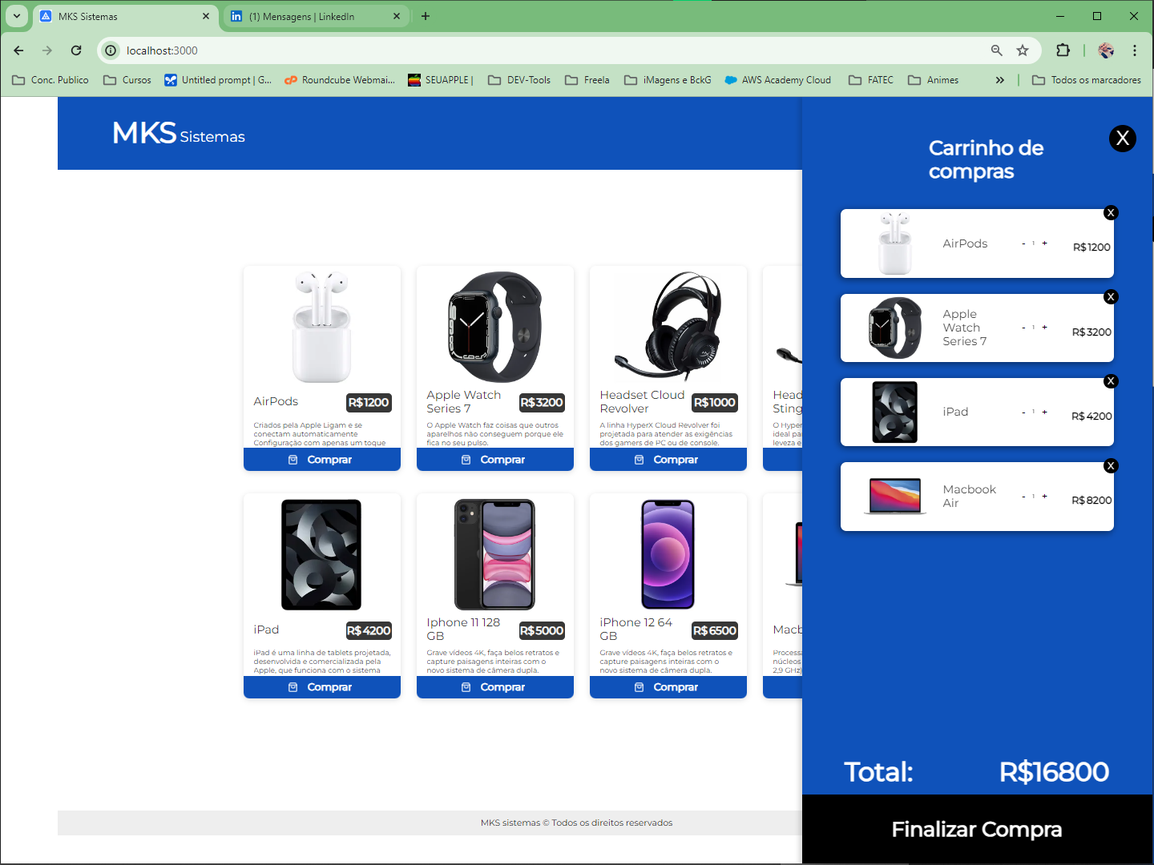
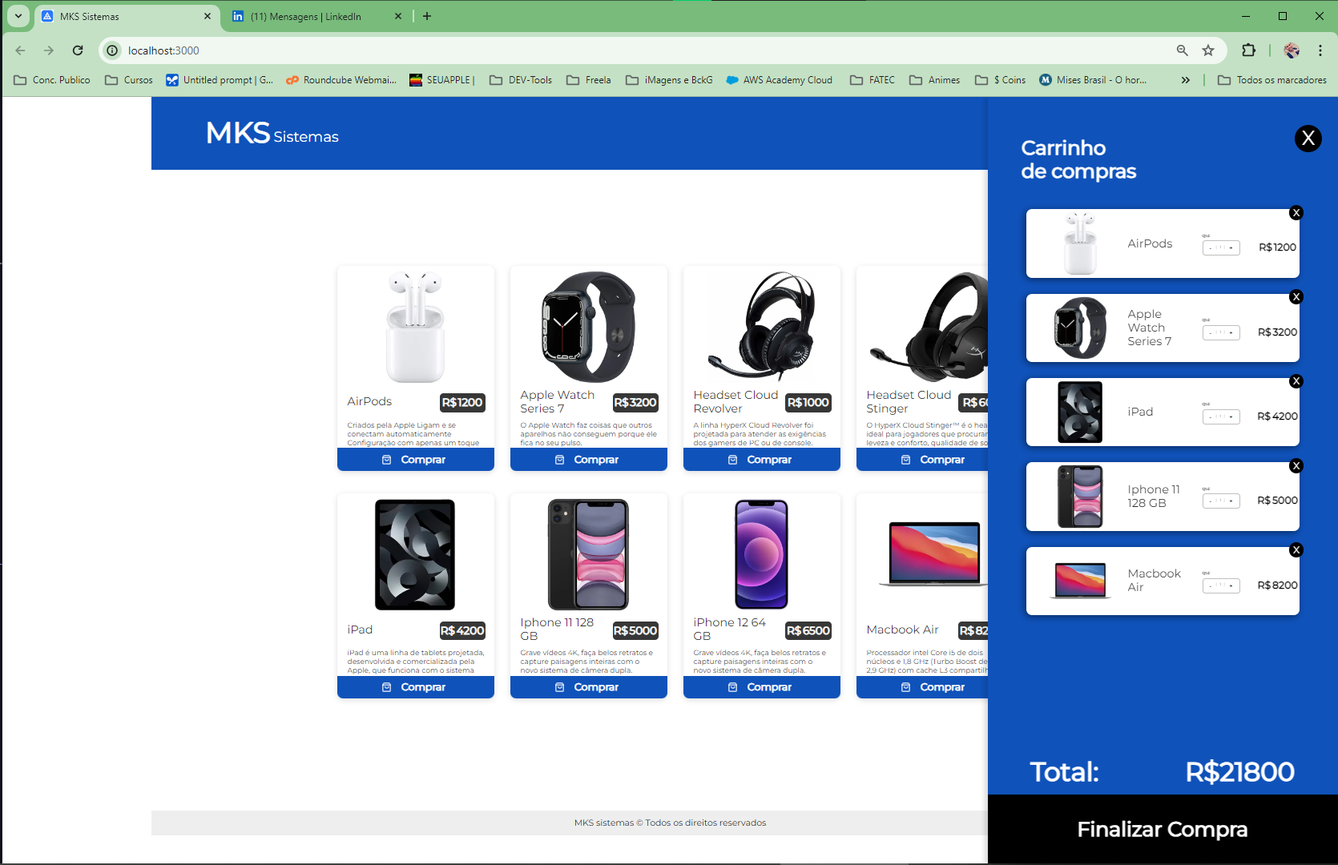
Side Bar: framer-motion, Qtdd button style update

diff --git a/mks-frontend-challenge/mks-sistemas/.firebase/genilson-mks-front-challenge/hosting/_next/static/chunks/app/page-98a6ad5fb05c4de2.js b/mks-frontend-challenge/mks-sistemas/.firebase/genilson-mks-front-challenge/hosting/_next/static/chunks/app/page-98a6ad5fb05c4de2.js
@@ -1,0 +1,1 @@
[1 lines of base64/hex data omitted]

diff --git a/mks-frontend-challenge/mks-sistemas/.firebase/genilson-mks-front-challenge/hosting/index.html b/mks-frontend-challenge/mks-sistemas/.firebase/genilson-mks-front-challenge/hosting/index.html
@@ -1,1 +1,1 @@
-<!DOCTYPE html><html lang="pt-br"><head><meta charSet="utf-8"/><meta name="viewport" content="width=device-width, initial-scale=1"/><link rel="stylesheet" href="/_next/static/css/7d08d1eec1a5125f.css" data-precedence="next"/><link rel="stylesheet" href="/_next/static/css/e2c7adb567ee67d3.css" data-precedence="next"/><link rel="preload" as="script" fetchPriority="low" href="/_next/static/chunks/webpack-60f6d8f44b110dc3.js"/><script src="/_next/static/chunks/fd9d1056-4a917af64af6b262.js" async=""></script><script src="/_next/static/chunks/23-1dc7a28b320d3501.js" async=""></script><script src="/_next/static/chunks/main-app-5343b7a0b2f4e223.js" async=""></script><script src="/_next/static/chunks/928-3aa71aaa48ee0732.js" async=""></script><script src="/_next/static/chunks/app/page-56bf90a2db7653ad.js" async=""></script><title>MKS Sistemas</title><meta name="description" content="MKS Sistemas Challenge created in React next JS by developer Genilson do Carmo."/><script src="/_next/static/chunks/polyfills-78c92fac7aa8fdd8.js" noModule=""></script></head><body class="__className_dbdb17"><div class="sc-ikkyvV bqNsVo"><div class="sc-eldOKa rLgUd"><div class="sc-fPXMhL bFUskl"><div class="mksTitle"><h1>MKS</h1></div><div class="sistemTitle"><h1>Sistemas</h1></div></div><div class="sc-gFqAYk fXurZe"><div class="buttonContainer"><button><div class="containerbuton"><img alt="imagem de carrinho de compras" loading="lazy" width="39" height="36" decoding="async" data-nimg="1" style="color:transparent" srcSet="/_next/image?url=%2F_next%2Fstatic%2Fmedia%2Fcarrinho.d9227c04.png&amp;w=48&amp;q=75 1x, /_next/image?url=%2F_next%2Fstatic%2Fmedia%2Fcarrinho.d9227c04.png&amp;w=96&amp;q=75 2x" src="/_next/image?url=%2F_next%2Fstatic%2Fmedia%2Fcarrinho.d9227c04.png&amp;w=96&amp;q=75"/><h1>0</h1></div></button></div></div></div><div class="sc-dAbbbq fpcSwF"><div class="shimmer-card p-20"><div class="grid grid-gap-20 grid-column-3"><div><div class=""><div class="shimmer shimmer-thumbnail m-0" style="height:218px"></div></div><div class="grid shimmer-title--secondary grid-gap-10 mt-15"><div class="shimmer shimmer-title-line"></div><div class="shimmer shimmer-title-line"></div></div></div><div><div class=""><div class="shimmer shimmer-thumbnail m-0" style="height:218px"></div></div><div class="grid shimmer-title--secondary grid-gap-10 mt-15"><div class="shimmer shimmer-title-line"></div><div class="shimmer shimmer-title-line"></div></div></div><div><div class=""><div class="shimmer shimmer-thumbnail m-0" style="height:218px"></div></div><div class="grid shimmer-title--secondary grid-gap-10 mt-15"><div class="shimmer shimmer-title-line"></div><div class="shimmer shimmer-title-line"></div></div></div><div><div class=""><div class="shimmer shimmer-thumbnail m-0" style="height:218px"></div></div><div class="grid shimmer-title--secondary grid-gap-10 mt-15"><div class="shimmer shimmer-title-line"></div><div class="shimmer shimmer-title-line"></div></div></div><div><div class=""><div class="shimmer shimmer-thumbnail m-0" style="height:218px"></div></div><div class="grid shimmer-title--secondary grid-gap-10 mt-15"><div class="shimmer shimmer-title-line"></div><div class="shimmer shimmer-title-line"></div></div></div><div><div class=""><div class="shimmer shimmer-thumbnail m-0" style="height:218px"></div></div><div class="grid shimmer-title--secondary grid-gap-10 mt-15"><div class="shimmer shimmer-title-line"></div><div class="shimmer shimmer-title-line"></div></div></div><div><div class=""><div class="shimmer shimmer-thumbnail m-0" style="height:218px"></div></div><div class="grid shimmer-title--secondary grid-gap-10 mt-15"><div class="shimmer shimmer-title-line"></div><div class="shimmer shimmer-title-line"></div></div></div><div><div class=""><div class="shimmer shimmer-thumbnail m-0" style="height:218px"></div></div><div class="grid shimmer-title--secondary grid-gap-10 mt-15"><div class="shimmer shimmer-title-line"></div><div class="shimmer shimmer-title-line"></div></div></div><div><div class=""><div class="shimmer shimmer-thumbnail m-0" style="height:218px"></div></div><div class="grid shimmer-title--secondary grid-gap-10 mt-15"><div class="shimmer shimmer-title-line"></div><div class="shimmer shimmer-title-line"></div></div></div></div></div></div><div class="sc-imWZod hiBCcp"><div><h1>MKS sistemas © Todos os direitos reservados</h1></div></div></div><script src="/_next/static/chunks/webpack-60f6d8f44b110dc3.js" async=""></script><script>(self.__next_f=self.__next_f||[]).push([0]);self.__next_f.push([2,null])</script><script>self.__next_f.push([1,"1:HL[\"/_next/static/css/7d08d1eec1a5125f.css\",\"style\"]\n2:HL[\"/_next/static/css/e2c7adb567ee67d3.css\",\"style\"]\n"])</script><script>self.__next_f.push([1,"3:I[5751,[],\"\"]\n5:I[6513,[],\"ClientPageRoot\"]\n6:I[1256,[\"928\",\"static/chunks/928-3aa71aaa48ee0732.js\",\"931\",\"static/chunks/app/page-56bf90a2db7653ad.js\"],\"default\"]\n7:I[9275,[],\"\"]\n8:I[1343,[],\"\"]\na:I[6130,[],\"\"]\nb:[]\n"])</script><script>self.__next_f.push([1,"0:[[[\"$\",\"link\",\"0\",{\"rel\":\"stylesheet\",\"href\":\"/_next/static/css/7d08d1eec1a5125f.css\",\"precedence\":\"next\",\"crossOrigin\":\"$undefined\"}]],[\"$\",\"$L3\",null,{\"buildId\":\"Q1N4CID2qMZDdFTT80_yf\",\"assetPrefix\":\"\",\"initialCanonicalUrl\":\"/\",\"initialTree\":[\"\",{\"children\":[\"__PAGE__\",{}]},\"$undefined\",\"$undefined\",true],\"initialSeedData\":[\"\",{\"children\":[\"__PAGE__\",{},[[\"$L4\",[\"$\",\"$L5\",null,{\"props\":{\"params\":{},\"searchParams\":{}},\"Component\":\"$6\"}]],null],null]},[[\"$\",\"html\",null,{\"lang\":\"pt-br\",\"children\":[\"$\",\"body\",null,{\"className\":\"__className_dbdb17\",\"children\":[\"$\",\"$L7\",null,{\"parallelRouterKey\":\"children\",\"segmentPath\":[\"children\"],\"error\":\"$undefined\",\"errorStyles\":\"$undefined\",\"errorScripts\":\"$undefined\",\"template\":[\"$\",\"$L8\",null,{}],\"templateStyles\":\"$undefined\",\"templateScripts\":\"$undefined\",\"notFound\":[[\"$\",\"title\",null,{\"children\":\"404: This page could not be found.\"}],[\"$\",\"div\",null,{\"style\":{\"fontFamily\":\"system-ui,\\\"Segoe UI\\\",Roboto,Helvetica,Arial,sans-serif,\\\"Apple Color Emoji\\\",\\\"Segoe UI Emoji\\\"\",\"height\":\"100vh\",\"textAlign\":\"center\",\"display\":\"flex\",\"flexDirection\":\"column\",\"alignItems\":\"center\",\"justifyContent\":\"center\"},\"children\":[\"$\",\"div\",null,{\"children\":[[\"$\",\"style\",null,{\"dangerouslySetInnerHTML\":{\"__html\":\"body{color:#000;background:#fff;margin:0}.next-error-h1{border-right:1px solid rgba(0,0,0,.3)}@media (prefers-color-scheme:dark){body{color:#fff;background:#000}.next-error-h1{border-right:1px solid rgba(255,255,255,.3)}}\"}}],[\"$\",\"h1\",null,{\"className\":\"next-error-h1\",\"style\":{\"display\":\"inline-block\",\"margin\":\"0 20px 0 0\",\"padding\":\"0 23px 0 0\",\"fontSize\":24,\"fontWeight\":500,\"verticalAlign\":\"top\",\"lineHeight\":\"49px\"},\"children\":\"404\"}],[\"$\",\"div\",null,{\"style\":{\"display\":\"inline-block\"},\"children\":[\"$\",\"h2\",null,{\"style\":{\"fontSize\":14,\"fontWeight\":400,\"lineHeight\":\"49px\",\"margin\":0},\"children\":\"This page could not be found.\"}]}]]}]}]],\"notFoundStyles\":[],\"styles\":[[\"$\",\"link\",\"0\",{\"rel\":\"stylesheet\",\"href\":\"/_next/static/css/e2c7adb567ee67d3.css\",\"precedence\":\"next\",\"crossOrigin\":\"$undefined\"}]]}]}]}],null],null],\"couldBeIntercepted\":false,\"initialHead\":[false,\"$L9\"],\"globalErrorComponent\":\"$a\",\"missingSlots\":\"$Wb\"}]]\n"])</script><script>self.__next_f.push([1,"9:[[\"$\",\"meta\",\"0\",{\"name\":\"viewport\",\"content\":\"width=device-width, initial-scale=1\"}],[\"$\",\"meta\",\"1\",{\"charSet\":\"utf-8\"}],[\"$\",\"title\",\"2\",{\"children\":\"MKS Sistemas\"}],[\"$\",\"meta\",\"3\",{\"name\":\"description\",\"content\":\"MKS Sistemas Challenge created in React next JS by developer Genilson do Carmo.\"}]]\n4:null\n"])</script></body></html>
+<!DOCTYPE html><html lang="pt-br"><head><meta charSet="utf-8"/><meta name="viewport" content="width=device-width, initial-scale=1"/><link rel="stylesheet" href="/_next/static/css/7d08d1eec1a5125f.css" data-precedence="next"/><link rel="stylesheet" href="/_next/static/css/e2c7adb567ee67d3.css" data-precedence="next"/><link rel="preload" as="script" fetchPriority="low" href="/_next/static/chunks/webpack-60f6d8f44b110dc3.js"/><script src="/_next/static/chunks/fd9d1056-4a917af64af6b262.js" async=""></script><script src="/_next/static/chunks/23-1dc7a28b320d3501.js" async=""></script><script src="/_next/static/chunks/main-app-5343b7a0b2f4e223.js" async=""></script><script src="/_next/static/chunks/928-3aa71aaa48ee0732.js" async=""></script><script src="/_next/static/chunks/app/page-98a6ad5fb05c4de2.js" async=""></script><title>MKS Sistemas</title><meta name="description" content="MKS Sistemas Challenge created in React next JS by developer Genilson do Carmo."/><script src="/_next/static/chunks/polyfills-78c92fac7aa8fdd8.js" noModule=""></script></head><body class="__className_dbdb17"><div class="sc-ikkyvV bqNsVo"><div class="sc-eldOKa rLgUd"><div class="sc-fPXMhL bFUskl"><div class="mksTitle"><h1>MKS</h1></div><div class="sistemTitle"><h1>Sistemas</h1></div></div><div class="sc-gFqAYk fXurZe"><div class="buttonContainer"><button><div class="containerbuton"><img alt="imagem de carrinho de compras" loading="lazy" width="39" height="36" decoding="async" data-nimg="1" style="color:transparent" srcSet="/_next/image?url=%2F_next%2Fstatic%2Fmedia%2Fcarrinho.d9227c04.png&amp;w=48&amp;q=75 1x, /_next/image?url=%2F_next%2Fstatic%2Fmedia%2Fcarrinho.d9227c04.png&amp;w=96&amp;q=75 2x" src="/_next/image?url=%2F_next%2Fstatic%2Fmedia%2Fcarrinho.d9227c04.png&amp;w=96&amp;q=75"/><h1>0</h1></div></button></div></div></div><div class="sc-dAbbbq fpcSwF"><div class="shimmer-card p-20"><div class="grid grid-gap-20 grid-column-3"><div><div class=""><div class="shimmer shimmer-thumbnail m-0" style="height:218px"></div></div><div class="grid shimmer-title--secondary grid-gap-10 mt-15"><div class="shimmer shimmer-title-line"></div><div class="shimmer shimmer-title-line"></div></div></div><div><div class=""><div class="shimmer shimmer-thumbnail m-0" style="height:218px"></div></div><div class="grid shimmer-title--secondary grid-gap-10 mt-15"><div class="shimmer shimmer-title-line"></div><div class="shimmer shimmer-title-line"></div></div></div><div><div class=""><div class="shimmer shimmer-thumbnail m-0" style="height:218px"></div></div><div class="grid shimmer-title--secondary grid-gap-10 mt-15"><div class="shimmer shimmer-title-line"></div><div class="shimmer shimmer-title-line"></div></div></div><div><div class=""><div class="shimmer shimmer-thumbnail m-0" style="height:218px"></div></div><div class="grid shimmer-title--secondary grid-gap-10 mt-15"><div class="shimmer shimmer-title-line"></div><div class="shimmer shimmer-title-line"></div></div></div><div><div class=""><div class="shimmer shimmer-thumbnail m-0" style="height:218px"></div></div><div class="grid shimmer-title--secondary grid-gap-10 mt-15"><div class="shimmer shimmer-title-line"></div><div class="shimmer shimmer-title-line"></div></div></div><div><div class=""><div class="shimmer shimmer-thumbnail m-0" style="height:218px"></div></div><div class="grid shimmer-title--secondary grid-gap-10 mt-15"><div class="shimmer shimmer-title-line"></div><div class="shimmer shimmer-title-line"></div></div></div><div><div class=""><div class="shimmer shimmer-thumbnail m-0" style="height:218px"></div></div><div class="grid shimmer-title--secondary grid-gap-10 mt-15"><div class="shimmer shimmer-title-line"></div><div class="shimmer shimmer-title-line"></div></div></div><div><div class=""><div class="shimmer shimmer-thumbnail m-0" style="height:218px"></div></div><div class="grid shimmer-title--secondary grid-gap-10 mt-15"><div class="shimmer shimmer-title-line"></div><div class="shimmer shimmer-title-line"></div></div></div><div><div class=""><div class="shimmer shimmer-thumbnail m-0" style="height:218px"></div></div><div class="grid shimmer-title--secondary grid-gap-10 mt-15"><div class="shimmer shimmer-title-line"></div><div class="shimmer shimmer-title-line"></div></div></div></div></div></div><div class="sc-imWZod hiBCcp"><div><h1>MKS sistemas © Todos os direitos reservados</h1></div></div></div><script src="/_next/static/chunks/webpack-60f6d8f44b110dc3.js" async=""></script><script>(self.__next_f=self.__next_f||[]).push([0]);self.__next_f.push([2,null])</script><script>self.__next_f.push([1,"1:HL[\"/_next/static/css/7d08d1eec1a5125f.css\",\"style\"]\n2:HL[\"/_next/static/css/e2c7adb567ee67d3.css\",\"style\"]\n"])</script><script>self.__next_f.push([1,"3:I[5751,[],\"\"]\n5:I[6513,[],\"ClientPageRoot\"]\n6:I[1256,[\"928\",\"static/chunks/928-3aa71aaa48ee0732.js\",\"931\",\"static/chunks/app/page-98a6ad5fb05c4de2.js\"],\"default\"]\n7:I[9275,[],\"\"]\n8:I[1343,[],\"\"]\na:I[6130,[],\"\"]\nb:[]\n"])</script><script>self.__next_f.push([1,"0:[[[\"$\",\"link\",\"0\",{\"rel\":\"stylesheet\",\"href\":\"/_next/static/css/7d08d1eec1a5125f.css\",\"precedence\":\"next\",\"crossOrigin\":\"$undefined\"}]],[\"$\",\"$L3\",null,{\"buildId\":\"dvzPuJbdsGUt-9lm-BDzG\",\"assetPrefix\":\"\",\"initialCanonicalUrl\":\"/\",\"initialTree\":[\"\",{\"children\":[\"__PAGE__\",{}]},\"$undefined\",\"$undefined\",true],\"initialSeedData\":[\"\",{\"children\":[\"__PAGE__\",{},[[\"$L4\",[\"$\",\"$L5\",null,{\"props\":{\"params\":{},\"searchParams\":{}},\"Component\":\"$6\"}]],null],null]},[[\"$\",\"html\",null,{\"lang\":\"pt-br\",\"children\":[\"$\",\"body\",null,{\"className\":\"__className_dbdb17\",\"children\":[\"$\",\"$L7\",null,{\"parallelRouterKey\":\"children\",\"segmentPath\":[\"children\"],\"error\":\"$undefined\",\"errorStyles\":\"$undefined\",\"errorScripts\":\"$undefined\",\"template\":[\"$\",\"$L8\",null,{}],\"templateStyles\":\"$undefined\",\"templateScripts\":\"$undefined\",\"notFound\":[[\"$\",\"title\",null,{\"children\":\"404: This page could not be found.\"}],[\"$\",\"div\",null,{\"style\":{\"fontFamily\":\"system-ui,\\\"Segoe UI\\\",Roboto,Helvetica,Arial,sans-serif,\\\"Apple Color Emoji\\\",\\\"Segoe UI Emoji\\\"\",\"height\":\"100vh\",\"textAlign\":\"center\",\"display\":\"flex\",\"flexDirection\":\"column\",\"alignItems\":\"center\",\"justifyContent\":\"center\"},\"children\":[\"$\",\"div\",null,{\"children\":[[\"$\",\"style\",null,{\"dangerouslySetInnerHTML\":{\"__html\":\"body{color:#000;background:#fff;margin:0}.next-error-h1{border-right:1px solid rgba(0,0,0,.3)}@media (prefers-color-scheme:dark){body{color:#fff;background:#000}.next-error-h1{border-right:1px solid rgba(255,255,255,.3)}}\"}}],[\"$\",\"h1\",null,{\"className\":\"next-error-h1\",\"style\":{\"display\":\"inline-block\",\"margin\":\"0 20px 0 0\",\"padding\":\"0 23px 0 0\",\"fontSize\":24,\"fontWeight\":500,\"verticalAlign\":\"top\",\"lineHeight\":\"49px\"},\"children\":\"404\"}],[\"$\",\"div\",null,{\"style\":{\"display\":\"inline-block\"},\"children\":[\"$\",\"h2\",null,{\"style\":{\"fontSize\":14,\"fontWeight\":400,\"lineHeight\":\"49px\",\"margin\":0},\"children\":\"This page could not be found.\"}]}]]}]}]],\"notFoundStyles\":[],\"styles\":[[\"$\",\"link\",\"0\",{\"rel\":\"stylesheet\",\"href\":\"/_next/static/css/e2c7adb567ee67d3.css\",\"precedence\":\"next\",\"crossOrigin\":\"$undefined\"}]]}]}]}],null],null],\"couldBeIntercepted\":false,\"initialHead\":[false,\"$L9\"],\"globalErrorComponent\":\"$a\",\"missingSlots\":\"$Wb\"}]]\n"])</script><script>self.__next_f.push([1,"9:[[\"$\",\"meta\",\"0\",{\"name\":\"viewport\",\"content\":\"width=device-width, initial-scale=1\"}],[\"$\",\"meta\",\"1\",{\"charSet\":\"utf-8\"}],[\"$\",\"title\",\"2\",{\"children\":\"MKS Sistemas\"}],[\"$\",\"meta\",\"3\",{\"name\":\"description\",\"content\":\"MKS Sistemas Challenge created in React next JS by developer Genilson do Carmo.\"}]]\n4:null\n"])</script></body></html>

diff --git a/mks-frontend-challenge/mks-sistemas/.firebase/genilson-mks-front-challenge/hosting/404.html b/mks-frontend-challenge/mks-sistemas/.firebase/genilson-mks-front-challenge/hosting/404.html
@@ -1,1 +1,1 @@
-<!DOCTYPE html><html lang="pt-br"><head><meta charSet="utf-8"/><meta name="viewport" content="width=device-width, initial-scale=1"/><link rel="stylesheet" href="/_next/static/css/7d08d1eec1a5125f.css" data-precedence="next"/><link rel="preload" as="script" fetchPriority="low" href="/_next/static/chunks/webpack-60f6d8f44b110dc3.js"/><script src="/_next/static/chunks/fd9d1056-4a917af64af6b262.js" async=""></script><script src="/_next/static/chunks/23-1dc7a28b320d3501.js" async=""></script><script src="/_next/static/chunks/main-app-5343b7a0b2f4e223.js" async=""></script><title>404: This page could not be found.</title><title>MKS Sistemas</title><meta name="description" content="MKS Sistemas Challenge created in React next JS by developer Genilson do Carmo."/><script src="/_next/static/chunks/polyfills-78c92fac7aa8fdd8.js" noModule=""></script></head><body class="__className_dbdb17"><div style="font-family:system-ui,&quot;Segoe UI&quot;,Roboto,Helvetica,Arial,sans-serif,&quot;Apple Color Emoji&quot;,&quot;Segoe UI Emoji&quot;;height:100vh;text-align:center;display:flex;flex-direction:column;align-items:center;justify-content:center"><div><style>body{color:#000;background:#fff;margin:0}.next-error-h1{border-right:1px solid rgba(0,0,0,.3)}@media (prefers-color-scheme:dark){body{color:#fff;background:#000}.next-error-h1{border-right:1px solid rgba(255,255,255,.3)}}</style><h1 class="next-error-h1" style="display:inline-block;margin:0 20px 0 0;padding:0 23px 0 0;font-size:24px;font-weight:500;vertical-align:top;line-height:49px">404</h1><div style="display:inline-block"><h2 style="font-size:14px;font-weight:400;line-height:49px;margin:0">This page could not be found.</h2></div></div></div><script src="/_next/static/chunks/webpack-60f6d8f44b110dc3.js" async=""></script><script>(self.__next_f=self.__next_f||[]).push([0]);self.__next_f.push([2,null])</script><script>self.__next_f.push([1,"1:HL[\"/_next/static/css/7d08d1eec1a5125f.css\",\"style\"]\n"])</script><script>self.__next_f.push([1,"2:I[5751,[],\"\"]\n4:I[9275,[],\"\"]\n5:I[1343,[],\"\"]\nb:I[6130,[],\"\"]\n6:{\"fontFamily\":\"system-ui,\\\"Segoe UI\\\",Roboto,Helvetica,Arial,sans-serif,\\\"Apple Color Emoji\\\",\\\"Segoe UI Emoji\\\"\",\"height\":\"100vh\",\"textAlign\":\"center\",\"display\":\"flex\",\"flexDirection\":\"column\",\"alignItems\":\"center\",\"justifyContent\":\"center\"}\n7:{\"display\":\"inline-block\",\"margin\":\"0 20px 0 0\",\"padding\":\"0 23px 0 0\",\"fontSize\":24,\"fontWeight\":500,\"verticalAlign\":\"top\",\"lineHeight\":\"49px\"}\n8:{\"display\":\"inline-block\"}\n9:{\"fontSize\":14,\"fontWeight\":400,\"lineHeight\":\"49px\",\"margin\":0}\nc:[]\n"])</script><script>self.__next_f.push([1,"0:[[[\"$\",\"link\",\"0\",{\"rel\":\"stylesheet\",\"href\":\"/_next/static/css/7d08d1eec1a5125f.css\",\"precedence\":\"next\",\"crossOrigin\":\"$undefined\"}]],[\"$\",\"$L2\",null,{\"buildId\":\"Q1N4CID2qMZDdFTT80_yf\",\"assetPrefix\":\"\",\"initialCanonicalUrl\":\"/_not-found\",\"initialTree\":[\"\",{\"children\":[\"/_not-found\",{\"children\":[\"__PAGE__\",{}]}]},\"$undefined\",\"$undefined\",true],\"initialSeedData\":[\"\",{\"children\":[\"/_not-found\",{\"children\":[\"__PAGE__\",{},[[\"$L3\",[[\"$\",\"title\",null,{\"children\":\"404: This page could not be found.\"}],[\"$\",\"div\",null,{\"style\":{\"fontFamily\":\"system-ui,\\\"Segoe UI\\\",Roboto,Helvetica,Arial,sans-serif,\\\"Apple Color Emoji\\\",\\\"Segoe UI Emoji\\\"\",\"height\":\"100vh\",\"textAlign\":\"center\",\"display\":\"flex\",\"flexDirection\":\"column\",\"alignItems\":\"center\",\"justifyContent\":\"center\"},\"children\":[\"$\",\"div\",null,{\"children\":[[\"$\",\"style\",null,{\"dangerouslySetInnerHTML\":{\"__html\":\"body{color:#000;background:#fff;margin:0}.next-error-h1{border-right:1px solid rgba(0,0,0,.3)}@media (prefers-color-scheme:dark){body{color:#fff;background:#000}.next-error-h1{border-right:1px solid rgba(255,255,255,.3)}}\"}}],[\"$\",\"h1\",null,{\"className\":\"next-error-h1\",\"style\":{\"display\":\"inline-block\",\"margin\":\"0 20px 0 0\",\"padding\":\"0 23px 0 0\",\"fontSize\":24,\"fontWeight\":500,\"verticalAlign\":\"top\",\"lineHeight\":\"49px\"},\"children\":\"404\"}],[\"$\",\"div\",null,{\"style\":{\"display\":\"inline-block\"},\"children\":[\"$\",\"h2\",null,{\"style\":{\"fontSize\":14,\"fontWeight\":400,\"lineHeight\":\"49px\",\"margin\":0},\"children\":\"This page could not be found.\"}]}]]}]}]]],null],null]},[\"$\",\"$L4\",null,{\"parallelRouterKey\":\"children\",\"segmentPath\":[\"children\",\"/_not-found\",\"children\"],\"error\":\"$undefined\",\"errorStyles\":\"$undefined\",\"errorScripts\":\"$undefined\",\"template\":[\"$\",\"$L5\",null,{}],\"templateStyles\":\"$undefined\",\"templateScripts\":\"$undefined\",\"notFound\":\"$undefined\",\"notFoundStyles\":\"$undefined\",\"styles\":null}],null]},[[\"$\",\"html\",null,{\"lang\":\"pt-br\",\"children\":[\"$\",\"body\",null,{\"className\":\"__className_dbdb17\",\"children\":[\"$\",\"$L4\",null,{\"parallelRouterKey\":\"children\",\"segmentPath\":[\"children\"],\"error\":\"$undefined\",\"errorStyles\":\"$undefined\",\"errorScripts\":\"$undefined\",\"template\":[\"$\",\"$L5\",null,{}],\"templateStyles\":\"$undefined\",\"templateScripts\":\"$undefined\",\"notFound\":[[\"$\",\"title\",null,{\"children\":\"404: This page could not be found.\"}],[\"$\",\"div\",null,{\"style\":\"$6\",\"children\":[\"$\",\"div\",null,{\"children\":[[\"$\",\"style\",null,{\"dangerouslySetInnerHTML\":{\"__html\":\"body{color:#000;background:#fff;margin:0}.next-error-h1{border-right:1px solid rgba(0,0,0,.3)}@media (prefers-color-scheme:dark){body{color:#fff;background:#000}.next-error-h1{border-right:1px solid rgba(255,255,255,.3)}}\"}}],[\"$\",\"h1\",null,{\"className\":\"next-error-h1\",\"style\":\"$7\",\"children\":\"404\"}],[\"$\",\"div\",null,{\"style\":\"$8\",\"children\":[\"$\",\"h2\",null,{\"style\":\"$9\",\"children\":\"This page could not be found.\"}]}]]}]}]],\"notFoundStyles\":[],\"styles\":null}]}]}],null],null],\"couldBeIntercepted\":false,\"initialHead\":[false,\"$La\"],\"globalErrorComponent\":\"$b\",\"missingSlots\":\"$Wc\"}]]\n"])</script><script>self.__next_f.push([1,"a:[[\"$\",\"meta\",\"0\",{\"name\":\"viewport\",\"content\":\"width=device-width, initial-scale=1\"}],[\"$\",\"meta\",\"1\",{\"charSet\":\"utf-8\"}],[\"$\",\"title\",\"2\",{\"children\":\"MKS Sistemas\"}],[\"$\",\"meta\",\"3\",{\"name\":\"description\",\"content\":\"MKS Sistemas Challenge created in React next JS by developer Genilson do Carmo.\"}]]\n3:null\n"])</script></body></html>
+<!DOCTYPE html><html lang="pt-br"><head><meta charSet="utf-8"/><meta name="viewport" content="width=device-width, initial-scale=1"/><link rel="stylesheet" href="/_next/static/css/7d08d1eec1a5125f.css" data-precedence="next"/><link rel="preload" as="script" fetchPriority="low" href="/_next/static/chunks/webpack-60f6d8f44b110dc3.js"/><script src="/_next/static/chunks/fd9d1056-4a917af64af6b262.js" async=""></script><script src="/_next/static/chunks/23-1dc7a28b320d3501.js" async=""></script><script src="/_next/static/chunks/main-app-5343b7a0b2f4e223.js" async=""></script><title>404: This page could not be found.</title><title>MKS Sistemas</title><meta name="description" content="MKS Sistemas Challenge created in React next JS by developer Genilson do Carmo."/><script src="/_next/static/chunks/polyfills-78c92fac7aa8fdd8.js" noModule=""></script></head><body class="__className_dbdb17"><div style="font-family:system-ui,&quot;Segoe UI&quot;,Roboto,Helvetica,Arial,sans-serif,&quot;Apple Color Emoji&quot;,&quot;Segoe UI Emoji&quot;;height:100vh;text-align:center;display:flex;flex-direction:column;align-items:center;justify-content:center"><div><style>body{color:#000;background:#fff;margin:0}.next-error-h1{border-right:1px solid rgba(0,0,0,.3)}@media (prefers-color-scheme:dark){body{color:#fff;background:#000}.next-error-h1{border-right:1px solid rgba(255,255,255,.3)}}</style><h1 class="next-error-h1" style="display:inline-block;margin:0 20px 0 0;padding:0 23px 0 0;font-size:24px;font-weight:500;vertical-align:top;line-height:49px">404</h1><div style="display:inline-block"><h2 style="font-size:14px;font-weight:400;line-height:49px;margin:0">This page could not be found.</h2></div></div></div><script src="/_next/static/chunks/webpack-60f6d8f44b110dc3.js" async=""></script><script>(self.__next_f=self.__next_f||[]).push([0]);self.__next_f.push([2,null])</script><script>self.__next_f.push([1,"1:HL[\"/_next/static/css/7d08d1eec1a5125f.css\",\"style\"]\n"])</script><script>self.__next_f.push([1,"2:I[5751,[],\"\"]\n4:I[9275,[],\"\"]\n5:I[1343,[],\"\"]\nb:I[6130,[],\"\"]\n6:{\"fontFamily\":\"system-ui,\\\"Segoe UI\\\",Roboto,Helvetica,Arial,sans-serif,\\\"Apple Color Emoji\\\",\\\"Segoe UI Emoji\\\"\",\"height\":\"100vh\",\"textAlign\":\"center\",\"display\":\"flex\",\"flexDirection\":\"column\",\"alignItems\":\"center\",\"justifyContent\":\"center\"}\n7:{\"display\":\"inline-block\",\"margin\":\"0 20px 0 0\",\"padding\":\"0 23px 0 0\",\"fontSize\":24,\"fontWeight\":500,\"verticalAlign\":\"top\",\"lineHeight\":\"49px\"}\n8:{\"display\":\"inline-block\"}\n9:{\"fontSize\":14,\"fontWeight\":400,\"lineHeight\":\"49px\",\"margin\":0}\nc:[]\n"])</script><script>self.__next_f.push([1,"0:[[[\"$\",\"link\",\"0\",{\"rel\":\"stylesheet\",\"href\":\"/_next/static/css/7d08d1eec1a5125f.css\",\"precedence\":\"next\",\"crossOrigin\":\"$undefined\"}]],[\"$\",\"$L2\",null,{\"buildId\":\"dvzPuJbdsGUt-9lm-BDzG\",\"assetPrefix\":\"\",\"initialCanonicalUrl\":\"/_not-found\",\"initialTree\":[\"\",{\"children\":[\"/_not-found\",{\"children\":[\"__PAGE__\",{}]}]},\"$undefined\",\"$undefined\",true],\"initialSeedData\":[\"\",{\"children\":[\"/_not-found\",{\"children\":[\"__PAGE__\",{},[[\"$L3\",[[\"$\",\"title\",null,{\"children\":\"404: This page could not be found.\"}],[\"$\",\"div\",null,{\"style\":{\"fontFamily\":\"system-ui,\\\"Segoe UI\\\",Roboto,Helvetica,Arial,sans-serif,\\\"Apple Color Emoji\\\",\\\"Segoe UI Emoji\\\"\",\"height\":\"100vh\",\"textAlign\":\"center\",\"display\":\"flex\",\"flexDirection\":\"column\",\"alignItems\":\"center\",\"justifyContent\":\"center\"},\"children\":[\"$\",\"div\",null,{\"children\":[[\"$\",\"style\",null,{\"dangerouslySetInnerHTML\":{\"__html\":\"body{color:#000;background:#fff;margin:0}.next-error-h1{border-right:1px solid rgba(0,0,0,.3)}@media (prefers-color-scheme:dark){body{color:#fff;background:#000}.next-error-h1{border-right:1px solid rgba(255,255,255,.3)}}\"}}],[\"$\",\"h1\",null,{\"className\":\"next-error-h1\",\"style\":{\"display\":\"inline-block\",\"margin\":\"0 20px 0 0\",\"padding\":\"0 23px 0 0\",\"fontSize\":24,\"fontWeight\":500,\"verticalAlign\":\"top\",\"lineHeight\":\"49px\"},\"children\":\"404\"}],[\"$\",\"div\",null,{\"style\":{\"display\":\"inline-block\"},\"children\":[\"$\",\"h2\",null,{\"style\":{\"fontSize\":14,\"fontWeight\":400,\"lineHeight\":\"49px\",\"margin\":0},\"children\":\"This page could not be found.\"}]}]]}]}]]],null],null]},[\"$\",\"$L4\",null,{\"parallelRouterKey\":\"children\",\"segmentPath\":[\"children\",\"/_not-found\",\"children\"],\"error\":\"$undefined\",\"errorStyles\":\"$undefined\",\"errorScripts\":\"$undefined\",\"template\":[\"$\",\"$L5\",null,{}],\"templateStyles\":\"$undefined\",\"templateScripts\":\"$undefined\",\"notFound\":\"$undefined\",\"notFoundStyles\":\"$undefined\",\"styles\":null}],null]},[[\"$\",\"html\",null,{\"lang\":\"pt-br\",\"children\":[\"$\",\"body\",null,{\"className\":\"__className_dbdb17\",\"children\":[\"$\",\"$L4\",null,{\"parallelRouterKey\":\"children\",\"segmentPath\":[\"children\"],\"error\":\"$undefined\",\"errorStyles\":\"$undefined\",\"errorScripts\":\"$undefined\",\"template\":[\"$\",\"$L5\",null,{}],\"templateStyles\":\"$undefined\",\"templateScripts\":\"$undefined\",\"notFound\":[[\"$\",\"title\",null,{\"children\":\"404: This page could not be found.\"}],[\"$\",\"div\",null,{\"style\":\"$6\",\"children\":[\"$\",\"div\",null,{\"children\":[[\"$\",\"style\",null,{\"dangerouslySetInnerHTML\":{\"__html\":\"body{color:#000;background:#fff;margin:0}.next-error-h1{border-right:1px solid rgba(0,0,0,.3)}@media (prefers-color-scheme:dark){body{color:#fff;background:#000}.next-error-h1{border-right:1px solid rgba(255,255,255,.3)}}\"}}],[\"$\",\"h1\",null,{\"className\":\"next-error-h1\",\"style\":\"$7\",\"children\":\"404\"}],[\"$\",\"div\",null,{\"style\":\"$8\",\"children\":[\"$\",\"h2\",null,{\"style\":\"$9\",\"children\":\"This page could not be found.\"}]}]]}]}]],\"notFoundStyles\":[],\"styles\":null}]}]}],null],null],\"couldBeIntercepted\":false,\"initialHead\":[false,\"$La\"],\"globalErrorComponent\":\"$b\",\"missingSlots\":\"$Wc\"}]]\n"])</script><script>self.__next_f.push([1,"a:[[\"$\",\"meta\",\"0\",{\"name\":\"viewport\",\"content\":\"width=device-width, initial-scale=1\"}],[\"$\",\"meta\",\"1\",{\"charSet\":\"utf-8\"}],[\"$\",\"title\",\"2\",{\"children\":\"MKS Sistemas\"}],[\"$\",\"meta\",\"3\",{\"name\":\"description\",\"content\":\"MKS Sistemas Challenge created in React next JS by developer Genilson do Carmo.\"}]]\n3:null\n"])</script></body></html>

diff --git a/mks-frontend-challenge/mks-sistemas/src/components/SideBar/index.jsx b/mks-frontend-challenge/mks-sistemas/src/components/SideBar/index.jsx
@@ -5,7 +5,6 @@ import * as S from './styles';
 
 function Sidebar({ closeSidebar }) {
   const { cartItems, removeFromCart } = useCart();
-
   const calcularTotal = () => {
     let total = 0;
     cartItems.forEach((product) => {
@@ -16,63 +15,75 @@ function Sidebar({ closeSidebar }) {
 
   return (
     <S.CartSidebar>
-      <button className="closeSidebar-btn" onClick={closeSidebar}>
-        X
-      </button>
-      <div className="SideBarTitle">
-        <h1>Carrinho de compras</h1>
-      </div>
+      <motion.div
+        className="sidebar-content"
+        initial={{ y: '-50%' }}
+        animate={{ y: 0 }}
+        transition={{ type: 'spring', stiffness: 70, damping: 20 }}
+      >
+        <button className="closeSidebar-btn" onClick={closeSidebar}>
+          X
+        </button>
+        <div className="SideBarTitle">
+          <h1>
+            Carrinho
+            <br /> de compras
+          </h1>
+        </div>
 
-      {cartItems.map((product) => (
-        <div className="itensContainer" key={product.id}>
-          <motion.div
-            className="box"
-            initial={{ opacity: 0, scale: 0.5 }}
-            animate={{ opacity: 1, scale: 1 }}
-            transition={{
-              duration: 0.4,
-              delay: 0.15,
-              ease: [0, 0.71, 0.2, 1.01],
-            }}
-          >
-            <S.Container>
-              <button
-                className="closeItensContainer-btn"
-                onClick={() => removeFromCart(product.id)}
-              >
-                X
-              </button>
-              <S.LeftContainer>
-                <S.Imagem>
-                  <img src={product.photo} alt={product.name} />
-                </S.Imagem>
-              </S.LeftContainer>
-              <S.MidleCard>
-                <S.Name>
-                  <h1>{product.name}</h1>
-                </S.Name>
-              </S.MidleCard>
-              <S.QttButton>
-                <button>-</button>
-                <h1>1</h1>
-                <button>+</button>
-              </S.QttButton>
-              <S.RightContainer>
-                <S.Price>
-                  <h1>{parseFloat(product.price).toFixed(0)}</h1>
-                </S.Price>
-              </S.RightContainer>
-            </S.Container>
-          </motion.div>
-        </div>
-      ))}
-      <S.ButtonContainer>
-        <div className="totalCalc">
-          <h1>Total:</h1>
-          <h1>R${calcularTotal()}</h1>
-        </div>
-        <button>Finalizar Compra</button>
-      </S.ButtonContainer>
+        {cartItems.map((product) => (
+          <div className="itensContainer" key={product.id}>
+            <motion.div
+              initial={{ opacity: 0, scale: 0.5 }}
+              animate={{ opacity: 1, scale: 1 }}
+              transition={{
+                duration: 0.4,
+                delay: 0.15,
+                ease: [0, 0.71, 0.2, 1.01],
+              }}
+            >
+              <S.Container>
+                <button
+                  className="closeItensContainer-btn"
+                  onClick={() => removeFromCart(product.id)}
+                >
+                  X
+                </button>
+                <S.LeftContainer>
+                  <S.Imagem>
+                    <img src={product.photo} alt={product.name} />
+                  </S.Imagem>
+                </S.LeftContainer>
+                <S.MidleCard>
+                  <S.Name>
+                    <h1>{product.name}</h1>
+                  </S.Name>
+                </S.MidleCard>
+                <div className="quantidadeContainer">
+                  <h1>Qtd:</h1>
+                  <S.QttButton>
+                    <button>-</button>
+                    <h1>1</h1>
+                    <button>+</button>
+                  </S.QttButton>
+                </div>
+                <S.RightContainer>
+                  <S.Price>
+                    <h1>{parseFloat(product.price).toFixed(0)}</h1>
+                  </S.Price>
+                </S.RightContainer>
+              </S.Container>
+            </motion.div>
+          </div>
+        ))}
+        <S.ButtonContainer>
+          <div className="totalCalc">
+            <h1>Total:</h1>
+            <h1>R${calcularTotal()}</h1>
+          </div>
+          <button>Finalizar Compra</button>
+        </S.ButtonContainer>
+      </motion.div>
     </S.CartSidebar>
   );
 }

diff --git a/mks-frontend-challenge/mks-sistemas/src/components/SideBar/styles.ts b/mks-frontend-challenge/mks-sistemas/src/components/SideBar/styles.ts
@@ -15,7 +15,13 @@ export const CartSidebar = styled.div`
   box-shadow: -5px 0px 6px 0px rgba(0, 0, 0, 0.1352);
   background-color: #0f52ba;
   transition: all 0.5s ease-in-out;
-  padding-bottom: 120px;
+  .sidebar-content {
+    position: relative;
+    display: flex;
+    height: 100%;
+    align-items: center;
+    flex-direction: column;
+  }
 
   .closeItensContainer-btn {
     height: 21px;
@@ -67,8 +73,8 @@ export const CartSidebar = styled.div`
     margin-bottom: 64px;
     width: 180px;
     height: 56px;
+    margin-right: 259px;
     margin-left: 47px;
-    text-align: start;
 
     h1 {
       font-family: 'Montserrat';
@@ -120,6 +126,17 @@ export const Container = styled.div`
   margin-bottom: 22px;
   transition: all 0.5s ease-in-out;
   border-radius: 8px;
+
+  .quantidadeContainer {
+    display: flex;
+    flex-direction: column;
+    h1 {
+      font-size: 5px;
+      font-weight: 400;
+      margin-bottom: 4px;
+      color: #000000;
+    }
+  }
 `;
 
 export const LeftContainer = styled.div`
@@ -175,9 +192,21 @@ export const QttButton = styled.div`
   display: flex;
   flex-direction: row;
   align-items: center;
+  justify-content: center;
+  border: 0.3px solid #bfbfbf;
+  border-radius: 4px;
+  overflow: hidden;
+  text-overflow: ellipsis;
+
   button {
     border: none;
     background-color: #ffffff;
+    font-size: 8px;
+    height: 100%;
+    width: auto;
+    &:hover {
+      cursor: pointer;
+    }
   }
 
   h1 {
@@ -187,9 +216,18 @@ export const QttButton = styled.div`
     line-height: 9.75px;
     overflow: hidden;
     text-overflow: ellipsis;
-    margin-left: 4px;
-    margin-right: 4px;
+
     color: #000000;
+    &::before {
+      content: '|';
+      margin-right: 4px;
+      color: #bfbfbf;
+    }
+    &::after {
+      content: '|';
+      margin-left: 4px;
+      color: #bfbfbf;
+    }
   }
 `;
 
